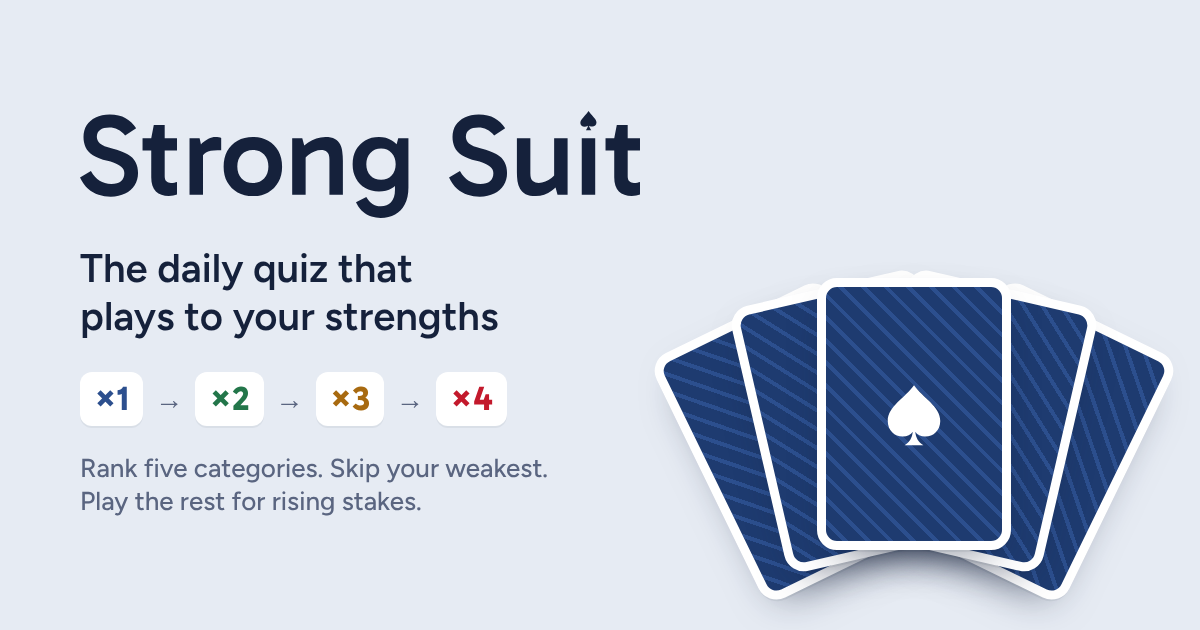
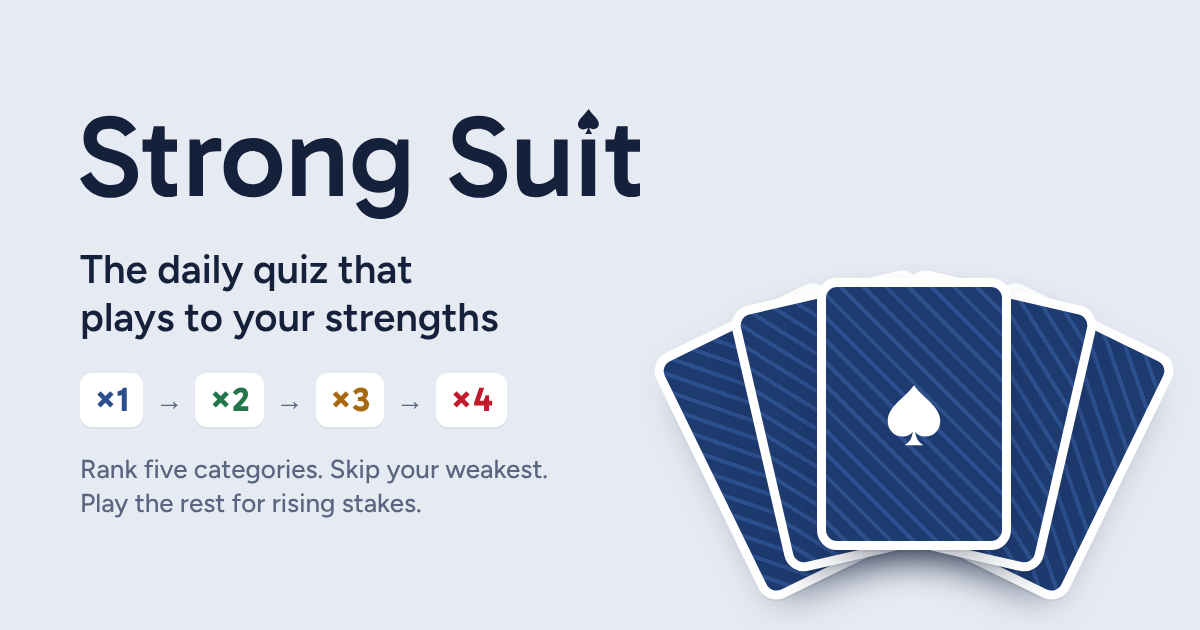
Update wordmark: larger spade on the i
Claude-Session: https://claude.ai/code/session_01StqeMNj12YLsWU67sefs5L

diff --git a/index.html b/index.html
@@ -235,7 +235,7 @@ body.tut .wrap{padding-bottom:230px}
 
 <div class="wrap" id="app">
   <header class="top">
-    <div class="brand"><svg class="wordmark" viewBox="20.5375 105.0155 160.2967 30.6069" role="img" aria-label="Strong Suit"><path fill="currentColor" d="m 166.10127,105.01553 c -0.1824,0.24016 -0.66855,0.94639 -1.56734,1.90221 -1.8174,1.85676 -0.0494,3.20883 1.38751,2.32233 0.008,0.45731 -0.351,0.88471 -0.57154,1.29295 h 1.55132 c -0.22713,-0.39678 -0.60624,-0.8343 -0.62011,-1.29295 1.46706,0.84277 3.02724,-0.62665 1.39939,-2.32233 -0.84882,-0.93126 -1.37926,-1.65589 -1.57923,-1.90221 z m -137.061916,1.01802 c -1.549747,0 -2.889258,0.27696 -4.01836,0.83044 -1.1291,0.55349 -1.99278,1.30628 -2.590539,2.25826 -0.59776,0.95199 -0.896586,2.06973 -0.896586,3.3538 0,1.04055 0.19939,2.00367 0.597896,2.88923 0.398506,0.86344 1.096113,1.62715 2.092379,2.29133 0.996265,0.64204 2.379512,1.18451 4.150651,1.6273 1.284075,0.30994 2.26958,0.65302 2.955892,1.02939 0.708461,0.35423 1.195219,0.74156 1.460893,1.1622 0.287805,0.3985 0.432014,0.87485 0.432014,1.42834 0,0.92985 -0.321208,1.66026 -0.963248,2.1916 -0.6199,0.53134 -1.538761,0.79685 -2.756421,0.79685 -1.306215,0 -2.423952,-0.29884 -3.353801,-0.89659 -0.929847,-0.59776 -1.760209,-1.53848 -2.490804,-2.82257 l -3.121773,1.85984 c 0.619899,1.32835 1.384142,2.40184 2.29185,3.22099 0.907709,0.79701 1.91456,1.38373 3.021521,1.7601 1.106961,0.35424 2.269468,0.53123 3.487126,0.53123 1.594023,0 2.966855,-0.29882 4.118094,-0.89658 1.17338,-0.59776 2.0808,-1.3948 2.722832,-2.39107 0.64204,-0.99627 0.963248,-2.12545 0.963248,-3.38739 0,-1.23979 -0.232704,-2.30235 -0.697631,-3.18792 -0.442787,-0.90771 -1.206515,-1.67143 -2.291333,-2.29133 -1.084819,-0.64204 -2.557088,-1.19544 -4.416785,-1.66037 -1.72686,-0.42064 -2.88885,-0.89648 -3.486609,-1.42782 -0.597759,-0.53133 -0.896586,-1.16231 -0.896586,-1.8929 0,-0.86343 0.30976,-1.51679 0.929659,-1.95957 0.619898,-0.46493 1.516379,-0.69712 2.689758,-0.69712 0.819152,0 1.605263,0.17701 2.357996,0.53123 0.774873,0.33209 1.48342,0.90736 2.125451,1.72651 l 3.154847,-2.09186 c -0.797013,-1.17338 -1.804378,-2.11411 -3.022038,-2.82256 -1.19552,-0.70847 -2.712037,-1.06299 -4.549593,-1.06299 z m 105.634376,0 c -1.54974,0 -2.88926,0.27696 -4.01836,0.83044 -1.1291,0.55349 -1.99226,1.30628 -2.59002,2.25826 -0.59776,0.95199 -0.89659,2.06973 -0.89659,3.3538 0,1.04055 0.19888,2.00367 0.59738,2.88923 0.39851,0.86344 1.09613,1.62715 2.09238,2.29133 0.99627,0.64204 2.38003,1.18451 4.15117,1.6273 1.28407,0.30994 2.26906,0.65302 2.95538,1.02939 0.70846,0.35423 1.19573,0.74156 1.46141,1.1622 0.2878,0.3985 0.43149,0.87485 0.43149,1.42834 0,0.92985 -0.32069,1.66026 -0.96273,2.1916 -0.6199,0.53134 -1.53876,0.79685 -2.75642,0.79685 -1.30622,0 -2.42447,-0.29884 -3.35432,-0.89659 -0.92984,-0.59776 -1.76021,-1.53848 -2.4908,-2.82257 l -3.12126,1.85984 c 0.6199,1.32835 1.38362,2.40184 2.29134,3.22099 0.9077,0.79701 1.91507,1.38373 3.02203,1.7601 1.10696,0.35424 2.26895,0.53123 3.48661,0.53123 1.59403,0 2.96686,-0.29882 4.1181,-0.89658 1.17338,-0.59776 2.08131,-1.3948 2.72335,-2.39107 0.64204,-0.99627 0.96273,-2.12545 0.96273,-3.38739 0,-1.23979 -0.23219,-2.30235 -0.69712,-3.18792 -0.44278,-0.90771 -1.20651,-1.67143 -2.29133,-2.29133 -1.08482,-0.64204 -2.55709,-1.19544 -4.41679,-1.66037 -1.72685,-0.42064 -2.88937,-0.89648 -3.48712,-1.42782 -0.59776,-0.53133 -0.89659,-1.16231 -0.89659,-1.8929 0,-0.86343 0.30976,-1.51679 0.92966,-1.95957 0.6199,-0.46493 1.5169,-0.69712 2.69028,-0.69712 0.81915,0 1.60474,0.17701 2.35748,0.53123 0.77487,0.33209 1.48342,0.90736 2.12545,1.72651 l 3.15484,-2.09186 c -0.79701,-1.17338 -1.80437,-2.11411 -3.02203,-2.82256 -1.19552,-0.70847 -2.71204,-1.06299 -4.5496,-1.06299 z m -93.016025,3.02204 -0.730705,3.75274 h -2.490287 v 3.5202 H 40.927 v 7.67085 c 0,1.83755 0.443027,3.18852 1.328601,4.05195 0.907706,0.84128 2.136335,1.26194 3.68608,1.26194 v -5.2e-4 c 0.509208,0 0.940786,-0.0328 1.295012,-0.0992 0.376366,-0.0664 0.730898,-0.15492 1.062984,-0.26562 v -3.58686 c -0.221394,0.0664 -0.475973,0.12159 -0.763778,0.16589 -0.287805,0.0443 -0.609014,0.0667 -0.963249,0.0667 -0.531339,0 -0.962925,-0.15514 -1.295011,-0.46509 -0.332086,-0.30995 -0.498161,-0.79671 -0.498161,-1.46089 v -7.33909 h 3.520199 v -3.5202 h -3.520199 v -3.75274 z m 132.534545,0 -0.7307,3.75274 h -2.49081 v 3.5202 h 2.49081 v 7.67085 c 0,1.83755 0.44303,3.18852 1.3286,4.05195 0.90771,0.84128 2.13633,1.26194 3.68608,1.26194 v -5.2e-4 c 0.5092,0 0.94077,-0.0328 1.29501,-0.0992 0.37636,-0.0664 0.7309,-0.15492 1.06298,-0.26562 v -3.58686 c -0.22139,0.0664 -0.47597,0.12159 -0.76377,0.16589 -0.28782,0.0443 -0.60903,0.0667 -0.96325,0.0667 -0.53134,0 -0.96293,-0.15514 -1.29502,-0.46509 -0.33208,-0.30995 -0.49816,-0.79671 -0.49816,-1.46089 v -7.33909 h 3.5202 v -3.5202 h -3.5202 v -3.75274 z m -114.867406,3.38739 c -0.686312,0 -1.361536,0.16607 -2.025716,0.49816 -0.642032,0.33209 -1.20637,0.73035 -1.693437,1.19528 -0.162234,0.15486 -0.310109,0.30506 -0.442867,0.4501 l -0.387573,-1.77819 h -2.88923 v 16.20573 h 3.852478 v -11.32282 c 0.244645,-0.30964 0.532025,-0.56474 0.862997,-0.76533 0.730592,-0.46493 1.826461,-0.69712 3.287654,-0.69712 h 1.062985 v -3.48712 c -0.154982,-0.11068 -0.387687,-0.18825 -0.697632,-0.23254 -0.287815,-0.0443 -0.597574,-0.0661 -0.929659,-0.0661 z m 10.691337,0 c -1.660438,0 -3.121772,0.35401 -4.383712,1.06247 -1.26194,0.70846 -2.246914,1.70489 -2.955375,2.98896 -0.686312,1.26194 -1.029911,2.74514 -1.029911,4.44986 0,1.66045 0.343599,3.13271 1.029911,4.41678 0.708461,1.26194 1.693435,2.24743 2.955375,2.9559 1.26194,0.70845 2.723274,1.06246 4.383712,1.06246 1.660446,0 3.121255,-0.35401 4.383195,-1.06246 1.26194,-0.70847 2.236507,-1.69396 2.922819,-2.9559 0.708461,-1.28407 1.062467,-2.75633 1.062467,-4.41678 0,-1.70472 -0.354006,-3.18792 -1.062467,-4.44986 -0.686312,-1.28407 -1.660879,-2.2805 -2.922819,-2.98896 -1.26194,-0.70846 -2.722749,-1.06247 -4.383195,-1.06247 z m 20.755322,0 c -0.885574,0 -1.748738,0.14369 -2.590023,0.4315 -0.819153,0.26567 -1.59433,0.65299 -2.324922,1.1622 -0.391852,0.26123 -0.767569,0.55116 -1.12758,0.86971 l -0.565857,-2.09806 h -2.889229 v 16.20573 h 3.851961 v -10.6624 c 0.226375,-0.26154 0.481466,-0.50421 0.764294,-0.72812 0.531339,-0.44278 1.117551,-0.78586 1.759583,-1.02939 0.66418,-0.26568 1.306597,-0.39843 1.926497,-0.39843 0.664181,0 1.217586,0.18794 1.660364,0.56431 0.464927,0.35422 0.697115,1.0737 0.697115,2.15852 v 10.09551 h 3.852478 v -9.76323 c 0,-0.86342 -0.05519,-1.69379 -0.165881,-2.4908 -0.08856,-0.81915 -0.298884,-1.54957 -0.63097,-2.1916 -0.332085,-0.66418 -0.83031,-1.18478 -1.494482,-1.56114 -0.66418,-0.37637 -1.572109,-0.56431 -2.723348,-0.56431 z m 15.342737,0 c -1.48333,0 -2.80098,0.33214 -3.95222,0.99632 -1.1291,0.66418 -2.01464,1.58304 -2.656683,2.75642 -0.6199,1.15124 -0.929659,2.51262 -0.929659,4.08451 0,1.54974 0.321208,2.91112 0.963249,4.0845 0.642033,1.17338 1.527583,2.08132 2.656683,2.72335 1.1291,0.64204 2.4353,0.96325 3.91863,0.96325 1.41691,0 2.64553,-0.31028 3.68608,-0.93018 0.32111,-0.19401 0.61994,-0.41221 0.89658,-0.65474 v 1.11983 c 0,1.59403 -0.37639,2.7784 -1.12913,3.55327 -0.73059,0.77488 -1.70464,1.16221 -2.9223,1.16221 -0.97413,0 -1.77117,-0.22127 -2.39107,-0.66405 -0.6199,-0.44278 -1.20662,-1.118 -1.7601,-2.02571 l -2.955373,1.52755 0.265616,0.49816 c 0.509207,0.97413 1.117797,1.74879 1.826247,2.32441 0.70846,0.59776 1.48363,1.01841 2.32492,1.26194 0.86343,0.26567 1.74897,0.39842 2.65669,0.39842 1.57188,0 2.9442,-0.33162 4.11757,-0.9958 1.19552,-0.64203 2.12532,-1.6166 2.7895,-2.92282 0.68631,-1.30621 1.02991,-2.91123 1.02991,-4.81521 v -14.08028 h -2.92282 l -0.46044,1.74356 c -0.39882,-0.43246 -0.854,-0.80338 -1.3658,-1.11259 -1.06269,-0.66418 -2.29131,-0.99632 -3.68608,-0.99632 z m 39.48544,0.36535 v 9.73016 c 0,0.88556 0.0552,1.73779 0.16588,2.55695 0.13283,0.81915 0.37648,1.54956 0.73071,2.19159 0.35422,0.64204 0.88524,1.15171 1.5937,1.52808 0.73059,0.37636 1.70464,0.5643 2.9223,0.5643 0.81915,0 1.6162,-0.13275 2.39107,-0.39842 0.77487,-0.28781 1.51673,-0.68659 2.22519,-1.19579 0.36702,-0.2638 0.71326,-0.54831 1.03869,-0.8537 l 0.55552,2.08256 h 2.88872 v -16.20573 h -3.85196 v 10.66188 c -0.22218,0.25458 -0.47558,0.49808 -0.76378,0.72864 -0.53134,0.44278 -1.11806,0.78586 -1.7601,1.0294 -0.6199,0.24352 -1.25087,0.36535 -1.89291,0.36535 -0.64203,0 -1.20637,-0.17701 -1.69344,-0.53124 -0.46492,-0.37636 -0.69763,-1.09583 -0.69763,-2.15852 v -10.09551 z m 18.56373,0 v 16.20573 h 3.85196 v -16.20573 z m -57.45128,2.95538 c 1.23979,0 2.24665,0.42065 3.02152,1.26194 0.77488,0.81915 1.16272,1.89315 1.16272,3.2215 0,1.32836 -0.38784,2.41278 -1.16272,3.25407 -0.77487,0.81915 -1.78173,1.22886 -3.02152,1.22886 -1.23979,0 -2.25861,-0.40971 -3.05563,-1.22886 -0.77487,-0.84129 -1.1622,-1.91478 -1.1622,-3.22099 0,-1.3505 0.38733,-2.43543 1.1622,-3.25458 0.79702,-0.84129 1.81584,-1.26194 3.05563,-1.26194 z m -36.695949,0.39842 c 1.328352,0 2.401839,0.44304 3.220992,1.3286 0.819153,0.86344 1.228865,2.00355 1.228865,3.42047 0,1.41691 -0.409712,2.56797 -1.228865,3.45353 -0.819153,0.86344 -1.89264,1.29553 -3.220992,1.29553 -1.328352,0 -2.402356,-0.43209 -3.221509,-1.29553 -0.819153,-0.88556 -1.228349,-2.03662 -1.228349,-3.45353 0,-1.43906 0.409196,-2.59011 1.228349,-3.45354 0.819153,-0.86343 1.893157,-1.29553 3.221509,-1.29553 z"/></svg></div>
+    <div class="brand"><svg class="wordmark" viewBox="20.5375 104.1107 160.2967 31.5118" role="img" aria-label="Strong Suit"><path fill="currentColor" d="m 166.11161,104.11067 c -0.23633,0.31117 -0.86636,1.22654 -2.03089,2.46497 h 5.2e-4 c -2.35475,2.40575 -0.065,4.15773 1.79679,3.00912 0.0104,0.59252 -0.45426,1.14588 -0.74001,1.67483 h 2.01022 c -0.29429,-0.5141 -0.7856,-1.08057 -0.80357,-1.67483 1.90082,1.09195 3.92197,-0.81208 1.81281,-3.00912 -1.09979,-1.2066 -1.78677,-2.14582 -2.04587,-2.46497 z m -137.072256,1.92288 c -1.549747,0 -2.889258,0.27696 -4.01836,0.83044 -1.1291,0.55349 -1.99278,1.30628 -2.590539,2.25826 -0.59776,0.95199 -0.896586,2.06973 -0.896586,3.3538 0,1.04055 0.19939,2.00367 0.597896,2.88923 0.398506,0.86344 1.096113,1.62715 2.092379,2.29133 0.996265,0.64204 2.379512,1.18451 4.150651,1.6273 1.284075,0.30994 2.26958,0.65302 2.955892,1.02939 0.708461,0.35423 1.195219,0.74156 1.460893,1.1622 0.287805,0.3985 0.432014,0.87485 0.432014,1.42834 0,0.92985 -0.321208,1.66026 -0.963248,2.1916 -0.6199,0.53134 -1.538761,0.79685 -2.756421,0.79685 -1.306215,0 -2.423952,-0.29884 -3.353801,-0.89659 -0.929847,-0.59776 -1.760209,-1.53848 -2.490804,-2.82257 l -3.121773,1.85984 c 0.619899,1.32835 1.384142,2.40184 2.29185,3.22099 0.907709,0.79701 1.91456,1.38373 3.021521,1.7601 1.106961,0.35424 2.269468,0.53123 3.487126,0.53123 1.594023,0 2.966855,-0.29882 4.118094,-0.89658 1.17338,-0.59776 2.0808,-1.3948 2.722832,-2.39107 0.64204,-0.99627 0.963248,-2.12545 0.963248,-3.38739 0,-1.23979 -0.232704,-2.30235 -0.697631,-3.18792 -0.442787,-0.90771 -1.206515,-1.67143 -2.291333,-2.29133 -1.084819,-0.64204 -2.557088,-1.19544 -4.416785,-1.66037 -1.72686,-0.42064 -2.88885,-0.89648 -3.486609,-1.42782 -0.597759,-0.53133 -0.896586,-1.16231 -0.896586,-1.8929 0,-0.86343 0.30976,-1.51679 0.929659,-1.95957 0.619898,-0.46493 1.516379,-0.69712 2.689758,-0.69712 0.819152,0 1.605263,0.17701 2.357996,0.53123 0.774873,0.33209 1.48342,0.90736 2.125451,1.72651 l 3.154847,-2.09186 c -0.797013,-1.17338 -1.804378,-2.11411 -3.022038,-2.82256 -1.19552,-0.70847 -2.712037,-1.06299 -4.549593,-1.06299 z m 105.634376,0 c -1.54974,0 -2.88926,0.27696 -4.01836,0.83044 -1.1291,0.55349 -1.99226,1.30628 -2.59002,2.25826 -0.59776,0.95199 -0.89659,2.06973 -0.89659,3.3538 0,1.04055 0.19888,2.00367 0.59738,2.88923 0.39851,0.86344 1.09613,1.62715 2.09238,2.29133 0.99627,0.64204 2.38003,1.18451 4.15117,1.6273 1.28407,0.30994 2.26906,0.65302 2.95538,1.02939 0.70846,0.35423 1.19573,0.74156 1.46141,1.1622 0.2878,0.3985 0.43149,0.87485 0.43149,1.42834 0,0.92985 -0.32069,1.66026 -0.96273,2.1916 -0.6199,0.53134 -1.53876,0.79685 -2.75642,0.79685 -1.30622,0 -2.42447,-0.29884 -3.35432,-0.89659 -0.92984,-0.59776 -1.76021,-1.53848 -2.4908,-2.82257 l -3.12126,1.85984 c 0.6199,1.32835 1.38362,2.40184 2.29134,3.22099 0.9077,0.79701 1.91507,1.38373 3.02203,1.7601 1.10696,0.35424 2.26895,0.53123 3.48661,0.53123 1.59403,0 2.96686,-0.29882 4.1181,-0.89658 1.17338,-0.59776 2.08131,-1.3948 2.72335,-2.39107 0.64204,-0.99627 0.96273,-2.12545 0.96273,-3.38739 0,-1.23979 -0.23219,-2.30235 -0.69712,-3.18792 -0.44278,-0.90771 -1.20651,-1.67143 -2.29133,-2.29133 -1.08482,-0.64204 -2.55709,-1.19544 -4.41679,-1.66037 -1.72685,-0.42064 -2.88937,-0.89648 -3.48712,-1.42782 -0.59776,-0.53133 -0.89659,-1.16231 -0.89659,-1.8929 0,-0.86343 0.30976,-1.51679 0.92966,-1.95957 0.6199,-0.46493 1.5169,-0.69712 2.69028,-0.69712 0.81915,0 1.60474,0.17701 2.35748,0.53123 0.77487,0.33209 1.48342,0.90736 2.12545,1.72651 l 3.15484,-2.09186 c -0.79701,-1.17338 -1.80437,-2.11411 -3.02203,-2.82256 -1.19552,-0.70847 -2.71204,-1.06299 -4.5496,-1.06299 z m -93.016025,3.02204 -0.730705,3.75274 h -2.490287 v 3.5202 H 40.927 v 7.67085 c 0,1.83755 0.443027,3.18852 1.328601,4.05195 0.907706,0.84128 2.136335,1.26194 3.68608,1.26194 v -5.2e-4 c 0.509208,0 0.940786,-0.0328 1.295012,-0.0992 0.376366,-0.0664 0.730898,-0.15492 1.062984,-0.26562 v -3.58686 c -0.221394,0.0664 -0.475973,0.12159 -0.763778,0.16589 -0.287805,0.0443 -0.609014,0.0667 -0.963249,0.0667 -0.531339,0 -0.962925,-0.15514 -1.295011,-0.46509 -0.332086,-0.30995 -0.498161,-0.79671 -0.498161,-1.46089 v -7.33909 h 3.520199 v -3.5202 h -3.520199 v -3.75274 z m 132.534545,0 -0.7307,3.75274 h -2.49081 v 3.5202 h 2.49081 v 7.67085 c 0,1.83755 0.44303,3.18852 1.3286,4.05195 0.90771,0.84128 2.13633,1.26194 3.68608,1.26194 v -5.2e-4 c 0.5092,0 0.94077,-0.0328 1.29501,-0.0992 0.37636,-0.0664 0.7309,-0.15492 1.06298,-0.26562 v -3.58686 c -0.22139,0.0664 -0.47597,0.12159 -0.76377,0.16589 -0.28782,0.0443 -0.60903,0.0667 -0.96325,0.0667 -0.53134,0 -0.96293,-0.15514 -1.29502,-0.46509 -0.33208,-0.30995 -0.49816,-0.79671 -0.49816,-1.46089 v -7.33909 h 3.5202 v -3.5202 h -3.5202 v -3.75274 z m -114.867406,3.38739 c -0.686312,0 -1.361536,0.16607 -2.025716,0.49816 -0.642032,0.33209 -1.20637,0.73035 -1.693437,1.19528 -0.162234,0.15486 -0.310109,0.30506 -0.442867,0.4501 l -0.387573,-1.77819 h -2.88923 v 16.20573 h 3.852478 v -11.32282 c 0.244645,-0.30964 0.532025,-0.56474 0.862997,-0.76533 0.730592,-0.46493 1.826461,-0.69712 3.287654,-0.69712 h 1.062985 v -3.48712 c -0.154982,-0.11068 -0.387687,-0.18825 -0.697632,-0.23254 -0.287815,-0.0443 -0.597574,-0.0661 -0.929659,-0.0661 z m 10.691337,0 c -1.660438,0 -3.121772,0.35401 -4.383712,1.06247 -1.26194,0.70846 -2.246914,1.70489 -2.955375,2.98896 -0.686312,1.26194 -1.029911,2.74514 -1.029911,4.44986 0,1.66045 0.343599,3.13271 1.029911,4.41678 0.708461,1.26194 1.693435,2.24743 2.955375,2.9559 1.26194,0.70845 2.723274,1.06246 4.383712,1.06246 1.660446,0 3.121255,-0.35401 4.383195,-1.06246 1.26194,-0.70847 2.236507,-1.69396 2.922819,-2.9559 0.708461,-1.28407 1.062467,-2.75633 1.062467,-4.41678 0,-1.70472 -0.354006,-3.18792 -1.062467,-4.44986 -0.686312,-1.28407 -1.660879,-2.2805 -2.922819,-2.98896 -1.26194,-0.70846 -2.722749,-1.06247 -4.383195,-1.06247 z m 20.755322,0 c -0.885574,0 -1.748738,0.14369 -2.590023,0.4315 -0.819153,0.26567 -1.59433,0.65299 -2.324922,1.1622 -0.391852,0.26123 -0.767569,0.55116 -1.12758,0.86971 l -0.565857,-2.09806 h -2.889229 v 16.20573 h 3.851961 v -10.6624 c 0.226375,-0.26154 0.481466,-0.50421 0.764294,-0.72812 0.531339,-0.44278 1.117551,-0.78586 1.759583,-1.02939 0.66418,-0.26568 1.306597,-0.39843 1.926497,-0.39843 0.664181,0 1.217586,0.18794 1.660364,0.56431 0.464927,0.35422 0.697115,1.0737 0.697115,2.15852 v 10.09551 h 3.852478 v -9.76323 c 0,-0.86342 -0.05519,-1.69379 -0.165881,-2.4908 -0.08856,-0.81915 -0.298884,-1.54957 -0.63097,-2.1916 -0.332085,-0.66418 -0.83031,-1.18478 -1.494482,-1.56114 -0.66418,-0.37637 -1.572109,-0.56431 -2.723348,-0.56431 z m 15.342737,0 c -1.48333,0 -2.80098,0.33214 -3.95222,0.99632 -1.1291,0.66418 -2.01464,1.58304 -2.656683,2.75642 -0.6199,1.15124 -0.929659,2.51262 -0.929659,4.08451 0,1.54974 0.321208,2.91112 0.963249,4.0845 0.642033,1.17338 1.527583,2.08132 2.656683,2.72335 1.1291,0.64204 2.4353,0.96325 3.91863,0.96325 1.41691,0 2.64553,-0.31028 3.68608,-0.93018 0.32111,-0.19401 0.61994,-0.41221 0.89658,-0.65474 v 1.11983 c 0,1.59403 -0.37639,2.7784 -1.12913,3.55327 -0.73059,0.77488 -1.70464,1.16221 -2.9223,1.16221 -0.97413,0 -1.77117,-0.22127 -2.39107,-0.66405 -0.6199,-0.44278 -1.20662,-1.118 -1.7601,-2.02571 l -2.955373,1.52755 0.265616,0.49816 c 0.509207,0.97413 1.117797,1.74879 1.826247,2.32441 0.70846,0.59776 1.48363,1.01841 2.32492,1.26194 0.86343,0.26567 1.74897,0.39842 2.65669,0.39842 1.57188,0 2.9442,-0.33162 4.11757,-0.9958 1.19552,-0.64203 2.12532,-1.6166 2.7895,-2.92282 0.68631,-1.30621 1.02991,-2.91123 1.02991,-4.81521 v -14.08028 h -2.92282 l -0.46044,1.74356 c -0.39882,-0.43246 -0.854,-0.80338 -1.3658,-1.11259 -1.06269,-0.66418 -2.29131,-0.99632 -3.68608,-0.99632 z m 39.48544,0.36535 v 9.73016 c 0,0.88556 0.0552,1.73779 0.16588,2.55695 0.13283,0.81915 0.37648,1.54956 0.73071,2.19159 0.35422,0.64204 0.88524,1.15171 1.5937,1.52808 0.73059,0.37636 1.70464,0.5643 2.9223,0.5643 0.81915,0 1.6162,-0.13275 2.39107,-0.39842 0.77487,-0.28781 1.51673,-0.68659 2.22519,-1.19579 0.36702,-0.2638 0.71326,-0.54831 1.03869,-0.8537 l 0.55552,2.08256 h 2.88872 v -16.20573 h -3.85196 v 10.66188 c -0.22218,0.25458 -0.47558,0.49808 -0.76378,0.72864 -0.53134,0.44278 -1.11806,0.78586 -1.7601,1.0294 -0.6199,0.24352 -1.25087,0.36535 -1.89291,0.36535 -0.64203,0 -1.20637,-0.17701 -1.69344,-0.53124 -0.46492,-0.37636 -0.69763,-1.09583 -0.69763,-2.15852 v -10.09551 z m 18.56373,0 v 16.20573 h 3.85196 v -16.20573 z m -57.45128,2.95538 c 1.23979,0 2.24665,0.42065 3.02152,1.26194 0.77488,0.81915 1.16272,1.89315 1.16272,3.2215 0,1.32836 -0.38784,2.41278 -1.16272,3.25407 -0.77487,0.81915 -1.78173,1.22886 -3.02152,1.22886 -1.23979,0 -2.25861,-0.40971 -3.05563,-1.22886 -0.77487,-0.84129 -1.1622,-1.91478 -1.1622,-3.22099 0,-1.3505 0.38733,-2.43543 1.1622,-3.25458 0.79702,-0.84129 1.81584,-1.26194 3.05563,-1.26194 z m -36.695949,0.39842 c 1.328352,0 2.401839,0.44304 3.220992,1.3286 0.819153,0.86344 1.228865,2.00355 1.228865,3.42047 0,1.41691 -0.409712,2.56797 -1.228865,3.45353 -0.819153,0.86344 -1.89264,1.29553 -3.220992,1.29553 -1.328352,0 -2.402356,-0.43209 -3.221509,-1.29553 -0.819153,-0.88556 -1.228349,-2.03662 -1.228349,-3.45353 0,-1.43906 0.409196,-2.59011 1.228349,-3.45354 0.819153,-0.86343 1.893157,-1.29553 3.221509,-1.29553 z"/></svg></div>
     <button class="iconbtn" id="helpBtn" aria-label="How to play">?</button>
   </header>
 
